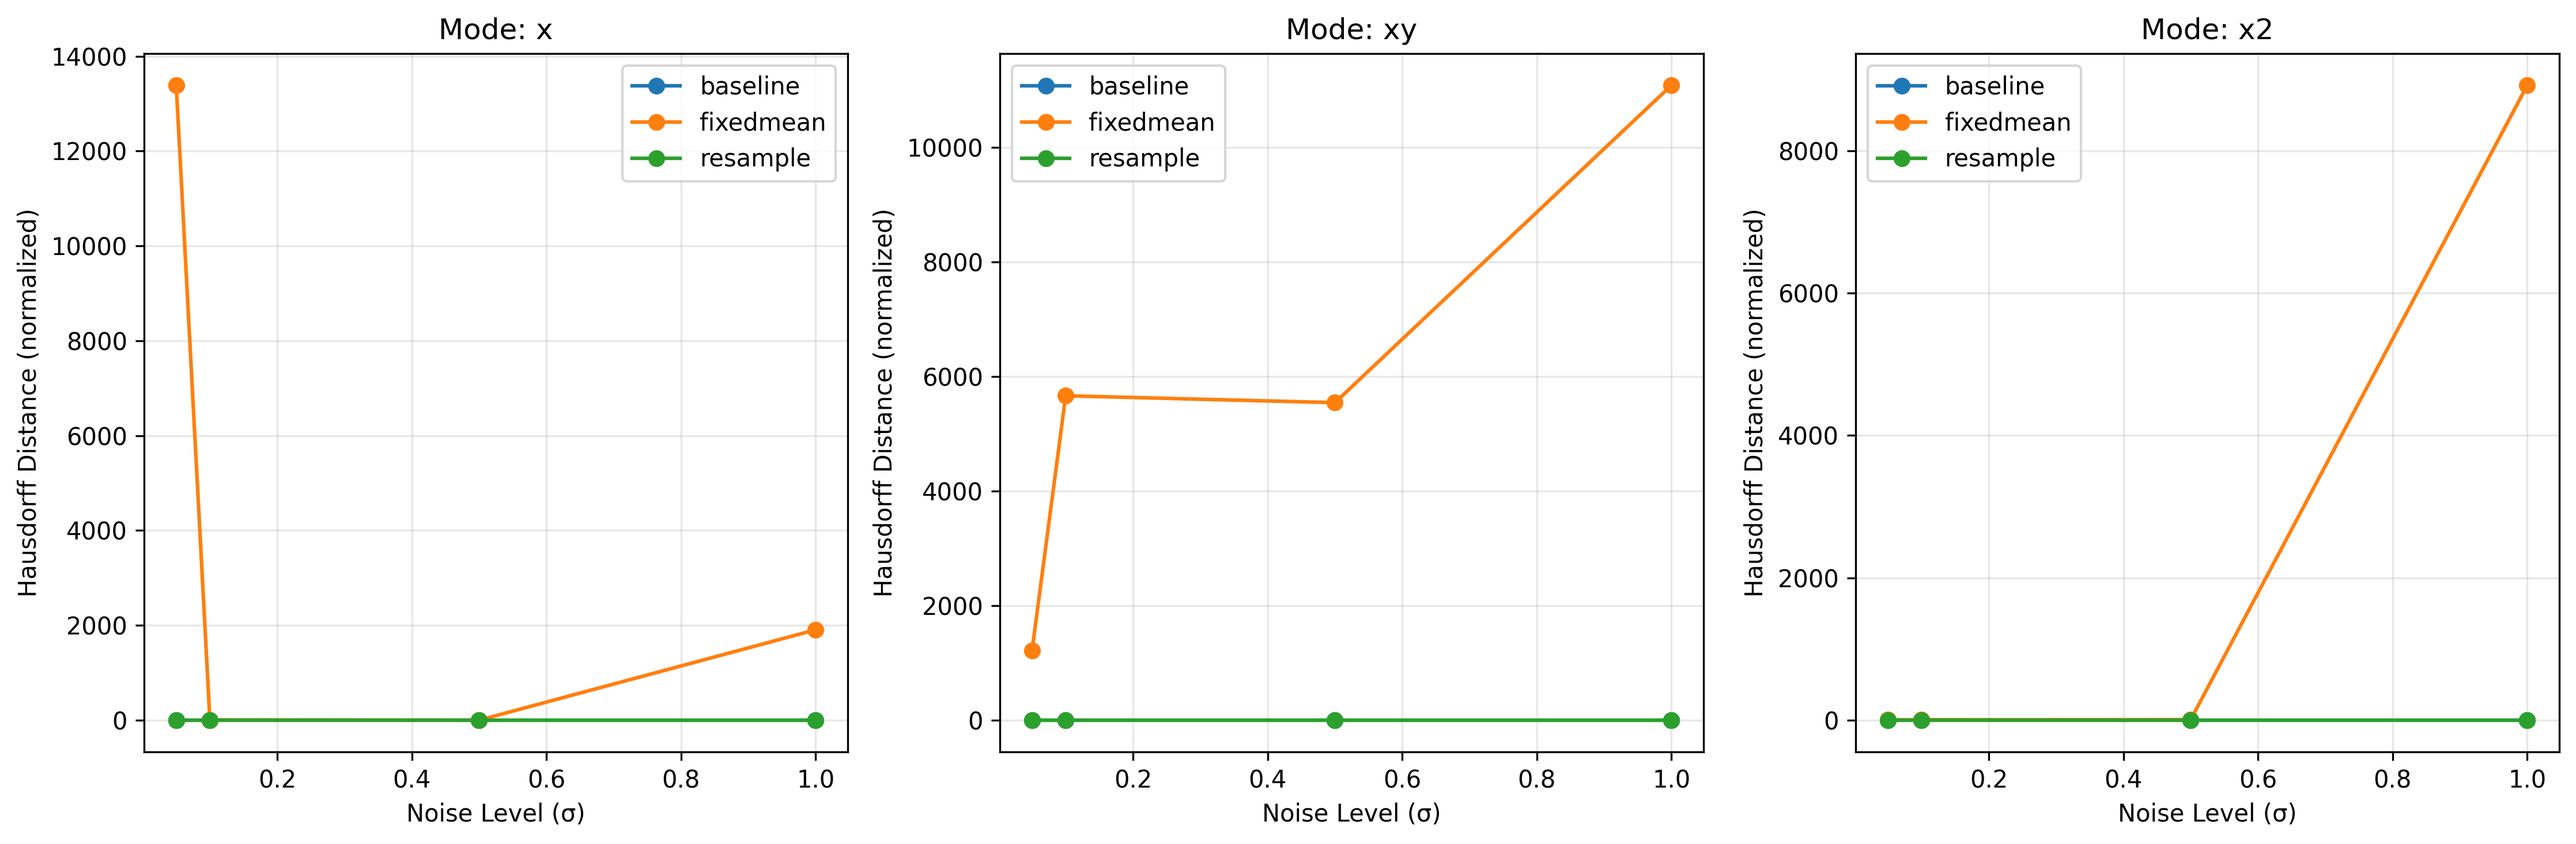
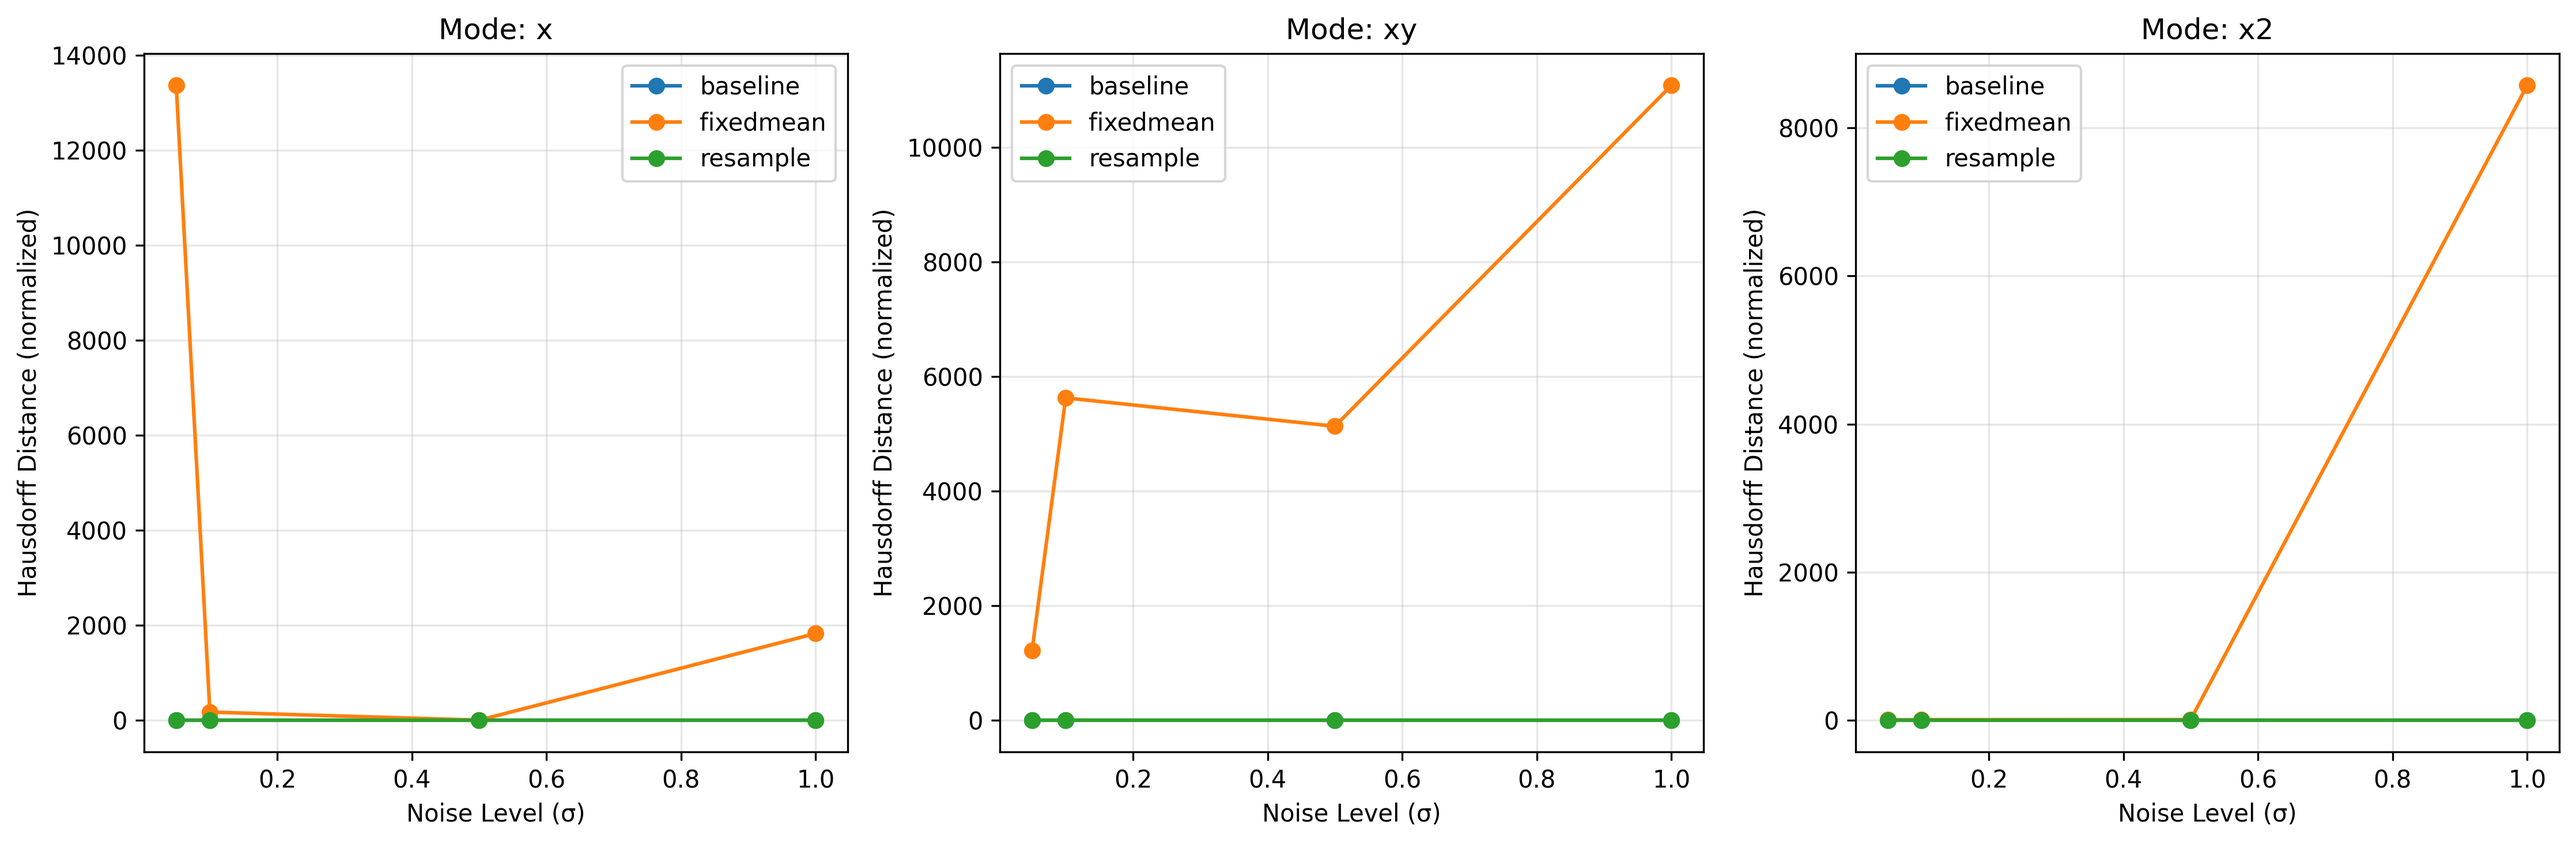
Address code review feedback: add constants, improve exception handling, ensure reproducibility

diff --git a/scripts/generate_section4_metrics_and_plots.py b/scripts/generate_section4_metrics_and_plots.py
@@ -22,6 +22,12 @@ import matplotlib.pyplot as plt
 from scipy.spatial.distance import directed_hausdorff
 from sklearn.metrics import mean_squared_error
 
+# Constants
+EPSILON = 1e-8  # Small value to avoid division by zero
+DIVERGENCE_THRESHOLD = 10.0  # RMSE threshold for trajectory divergence
+LORENZ_ATTRACTOR_RANGE = 50.0  # Typical coordinate range for normalization
+RANDOM_SEED = 42  # For reproducibility
+
 # Set up project paths
 PROJECT_ROOT = os.path.abspath(os.path.join(os.path.dirname(__file__), os.pardir))
 if PROJECT_ROOT not in sys.path:
@@ -84,6 +90,7 @@ def make_noisy_observations(traj, mode, sigma):
     Returns:
         obs: [steps, obs_dim]
     """
+    np.random.seed(RANDOM_SEED)  # For reproducibility
     obs = np.array([obs_operator(x, mode) for x in traj])
     obs_noisy = obs + np.random.normal(0, sigma, obs.shape)
     return obs_noisy
@@ -184,7 +191,7 @@ def compute_rmse(truth, pred):
     """Compute RMSE between truth and prediction."""
     try:
         return np.sqrt(mean_squared_error(truth, pred))
-    except:
+    except (ValueError, Exception) as e:
         return np.nan
 
 
@@ -202,22 +209,23 @@ def compute_hausdorff(truth, pred):
         d2 = directed_hausdorff(pred, truth)[0]
         hausdorff = max(d1, d2)
         
-        # Normalize by typical Lorenz attractor range (~50 in each dimension)
-        normalization = 50.0
-        return hausdorff / normalization
-    except:
+        # Normalize by typical Lorenz attractor range
+        return hausdorff / LORENZ_ATTRACTOR_RANGE
+    except (ValueError, Exception) as e:
         return np.nan
 
 
-def compute_divergence_rate(errors, threshold=10.0):
+def compute_divergence_rate(errors, threshold=None):
     """
     Compute divergence rate: step at which RMSE exceeds threshold.
     Args:
         errors: array of per-step errors
-        threshold: divergence threshold
+        threshold: divergence threshold (uses DIVERGENCE_THRESHOLD if None)
     Returns:
         divergence step (or -1 if never diverges)
     """
+    if threshold is None:
+        threshold = DIVERGENCE_THRESHOLD
     diverged_steps = np.where(errors > threshold)[0]
     if len(diverged_steps) > 0:
         return diverged_steps[0]
@@ -267,7 +275,7 @@ def evaluate_model(model, arch, mode, sigma, test_traj, B_mean,
         rmse_a = compute_rmse(truth, pred_a)
         
         # Compute improvement
-        improvement = (rmse_b - rmse_a) / (rmse_b + 1e-8)
+        improvement = (rmse_b - rmse_a) / (rmse_b + EPSILON)
         
         # Compute Hausdorff distance
         hausdorff = compute_hausdorff(truth, pred_a)
@@ -283,6 +291,10 @@ def evaluate_model(model, arch, mode, sigma, test_traj, B_mean,
         divergence_list.append(divergence)
     
     # Aggregate statistics
+    # Handle divergence_rate separately to avoid warnings with empty lists
+    diverged_values = [d for d in divergence_list if d >= 0]
+    divergence_rate_mean = np.mean(diverged_values) if len(diverged_values) > 0 else np.nan
+    
     results = {
         'rmse_b_mean': np.nanmean(rmse_b_list),
         'rmse_b_std': np.nanstd(rmse_b_list),
@@ -297,7 +309,7 @@ def evaluate_model(model, arch, mode, sigma, test_traj, B_mean,
         'hausdorff_mean': np.nanmean(hausdorff_list),
         'hausdorff_std': np.nanstd(hausdorff_list),
         'hausdorff_median': np.nanmedian(hausdorff_list),
-        'divergence_rate': np.mean([d for d in divergence_list if d >= 0]),
+        'divergence_rate': divergence_rate_mean,
     }
     
     return results
